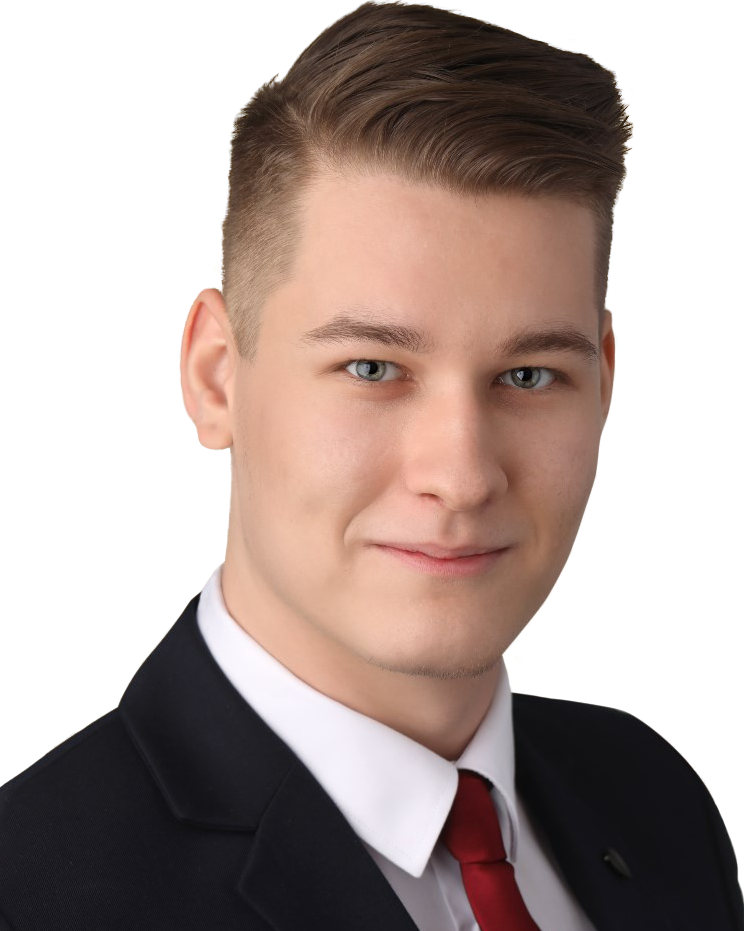
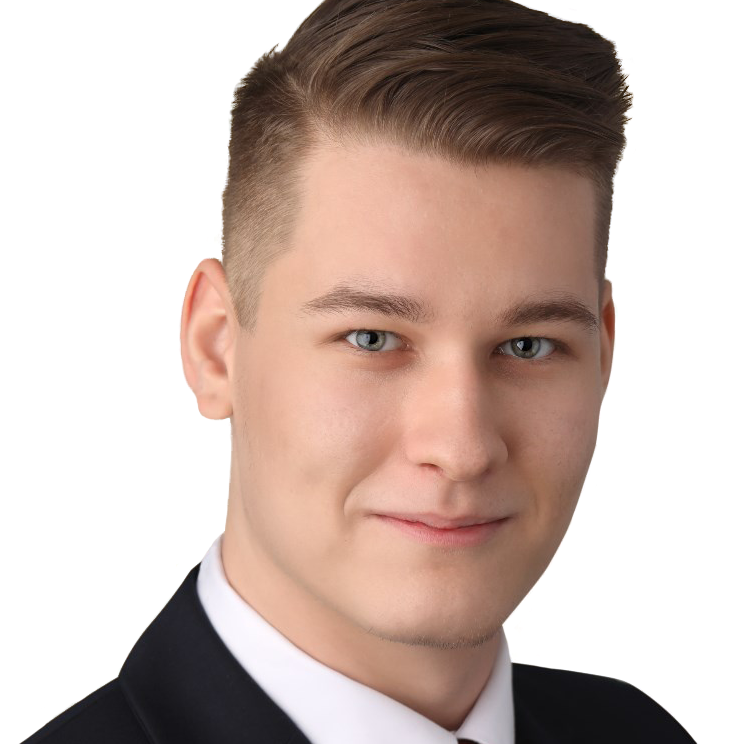
ProfileIMG fix

diff --git a/index.html b/index.html
@@ -45,7 +45,7 @@
             <div class="row">
                 <div class="col-md-6">
                     <div class="text-center">
-                        <img src="img/profile2.png" alt="Picture about me" title="Zoltán Péter Szikszó" class="img-fluid mx-auto py-3" id="profilepic">
+                        <img src="img/profile.png" alt="Picture about me" title="Zoltán Péter Szikszó" class="img-fluid rounded-circle mx-auto py-3" id="profilepic">
                     </div>
                 </div>
                 <div class="col-md-6">

diff --git a/css/styles.css b/css/styles.css
@@ -56,7 +56,8 @@ hr {
   background-color: white; }
 
 #profilepic {
-  width: 14rem; }
+  width: 20rem;
+  height: 20rem; }
 
 #aboutme {
   text-align: justify;

diff --git a/scss/styles.scss b/scss/styles.scss
@@ -69,7 +69,8 @@ hr{
 }
 
 #profilepic{
-    width: 14rem;
+    width: 20rem;
+    height: 20rem;
 }
 
 #aboutme{
